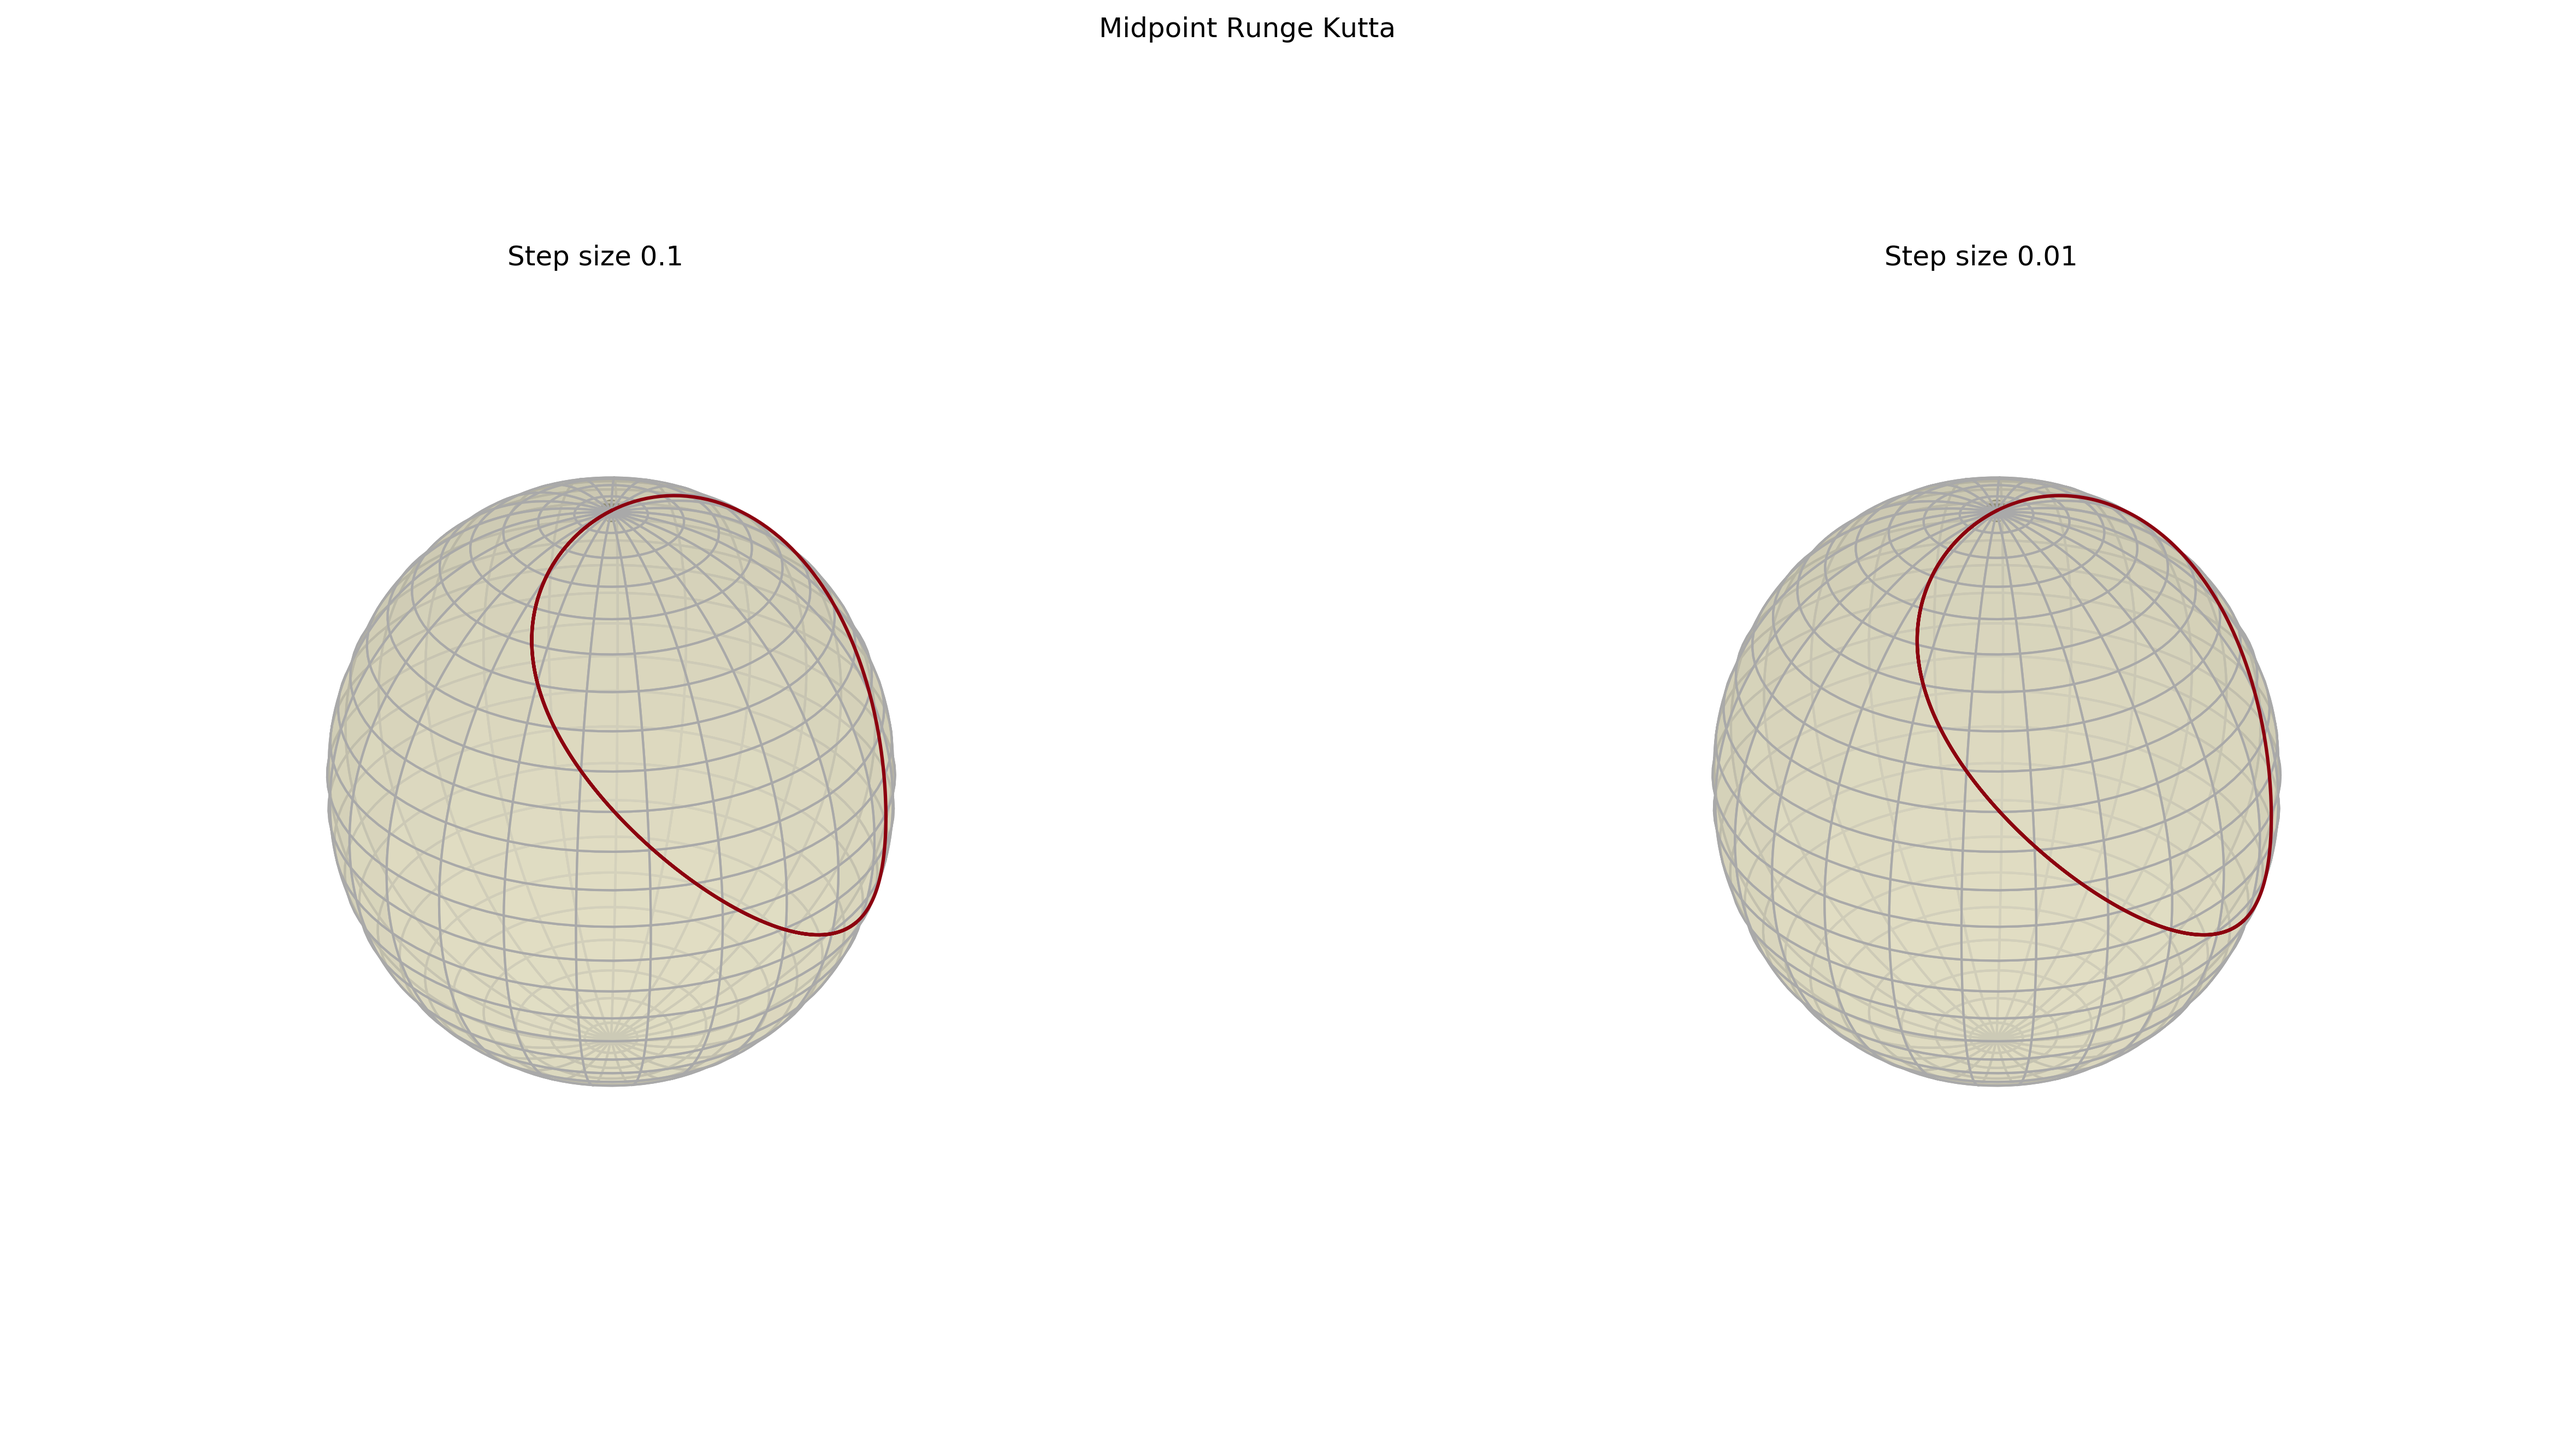
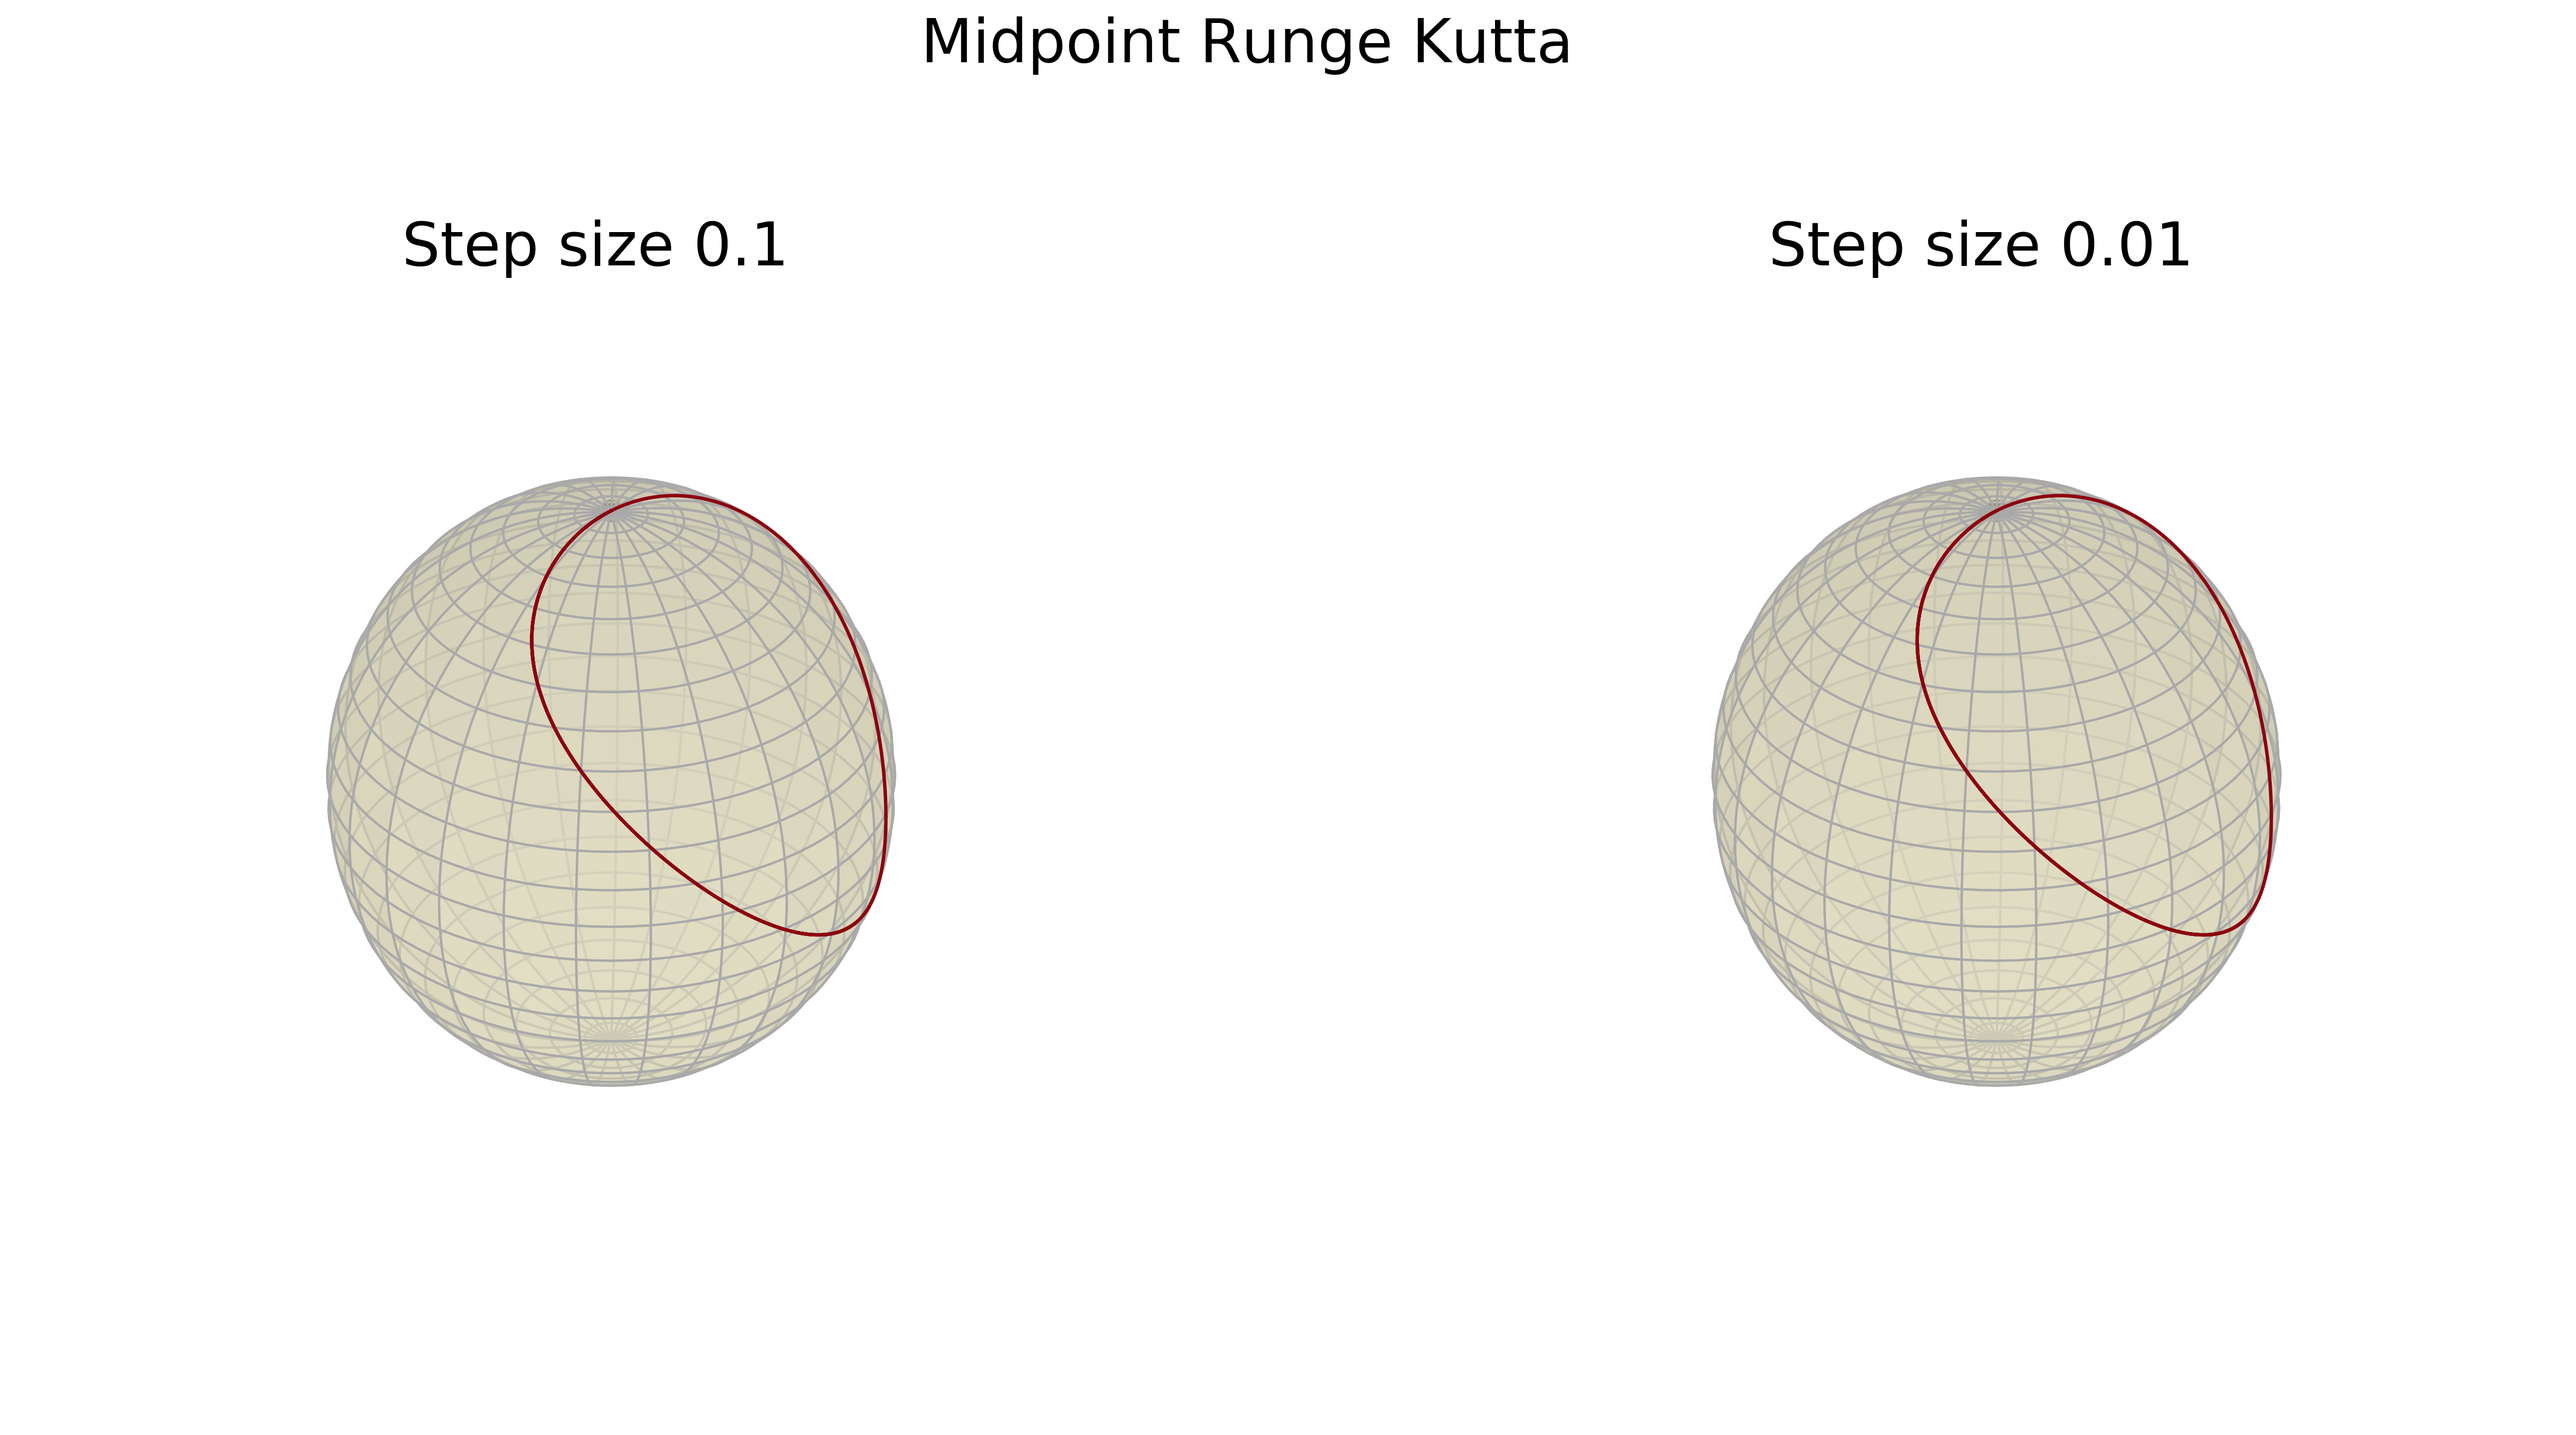
New size font on some graphs

Changed region(s): [[0.3429, 0.0, 0.6234, 0.0624], [0.6858, 0.156, 0.8416, 0.1872], [0.1559, 0.156, 0.3117, 0.1872]]

diff --git a/main.py b/main.py
@@ -46,7 +46,7 @@ print("{:<20}{:>20}{:>20}".format("Error", str(np.absolute(round(FaS - 0, 14))),
                                   str(round(np.absolute(GaS - gint), 14))))
 
 # Plot
-fig = plt.figure(1, figsize=(16, 9), dpi=100, facecolor='xkcd:pale',
+fig = plt.figure(1, figsize=(16, 9), facecolor='xkcd:pale',
                  edgecolor='none')
 ax = fig.add_subplot(111)
 ax.set_facecolor('xkcd:pale grey')
